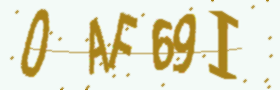
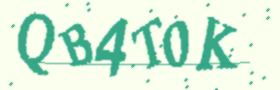
commit

diff --git a/SPCK/Windows/Eclahtee Note.py b/SPCK/Windows/Eclahtee Note.py
@@ -1,4 +1,3 @@
-
 # PyQt6
 from PyQt6.QtWidgets import *
 from PyQt6 import *
@@ -14,14 +13,15 @@ import importlib
 import random
 import string
 
+# Some thing very cool =)
+import webbrowser
+
 # Gemini API Setup
 import google.generativeai as genai
 import html2text
 import os
-genai.configure(api_key="AIzaSyDf_CTLM3mIPCx5n7fmNAtEQW5QeT2jgI0")
 
-# Some thing very cool =)
-import webbrowser
+genai.configure(api_key="AIzaSyDf_CTLM3mIPCx5n7fmNAtEQW5QeT2jgI0")
 
 # Setup global variables
 global note_name, edit_reload, logged, last_ui
@@ -40,7 +40,7 @@ with open("data\\account.ecl", "r") as f:
 #Login
 class Login(QMainWindow):   
     # Setup
-    image = ImageCaptcha(width=280, height=90)
+    image = ImageCaptcha(width=280, height=90, fonts=['times'])
     captcha_text = ''.join(random.choices(string.ascii_uppercase + string.digits, k=6))
     image.write(captcha_text, 'captcha.png')
     image = Image.open('captcha.png')
@@ -75,7 +75,7 @@ class Login(QMainWindow):
         login_ui.hide()
 
     def regenerate_captcha(self):
-        self.image = ImageCaptcha(width=280, height=90)
+        self.image = ImageCaptcha(width=280, height=90, fonts=['times'])
         self.captcha_text = ''.join(random.choices(string.ascii_uppercase + string.digits, k=6))
         self.image.write(self.captcha_text, 'captcha.png')
         self.image = Image.open('captcha.png')
@@ -87,7 +87,7 @@ class Login(QMainWindow):
         self.lineEdit_2.setText("")
         self.lineEdit_3.setText("")
         self.lineEdit_4.setText("")
-        self.image = ImageCaptcha(width=280, height=90)
+        self.image = ImageCaptcha(width=280, height=90, fonts=['times'])
         self.captcha_text = ''.join(random.choices(string.ascii_uppercase + string.digits, k=6))
         self.image.write(self.captcha_text, 'captcha.png')
         self.image = Image.open('captcha.png')

diff --git a/SPCK/Windows/export.py b/SPCK/Windows/export.py
@@ -1,0 +1,7 @@
+from cx_Freeze import setup, Executable
+
+setup(
+    name="Eclahtee Note",
+    version="1.0",
+    executables=[Executable("Eclahtee Note.py")],
+)

diff --git a/SPCK/Windows/tempCodeRunnerFile.py b/SPCK/Windows/tempCodeRunnerFile.py
@@ -1,1 +1,1 @@
-self.lineEdit.setText("")
+sys.exit(app.exec())
